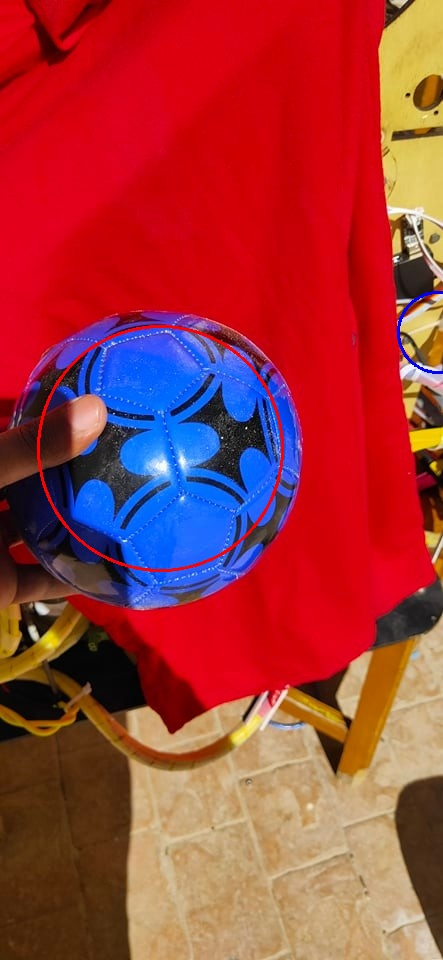
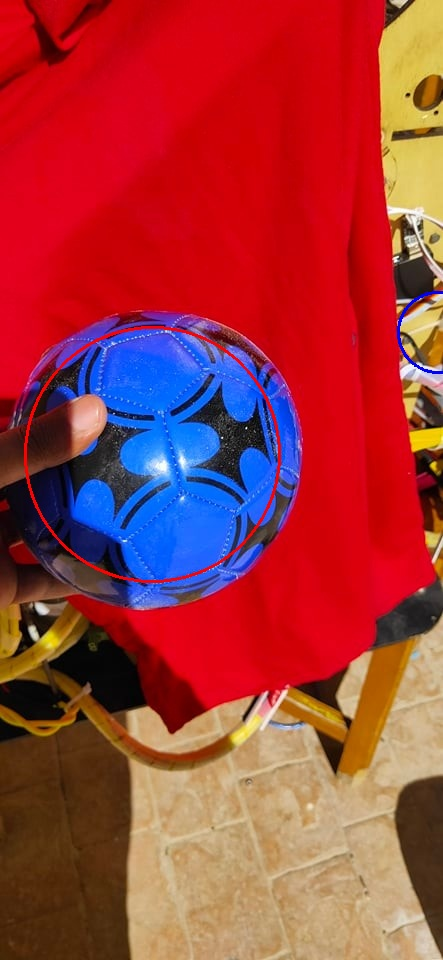
hotfix

Changed region(s): [[0.0293, 0.3438, 0.6456, 0.625], [0.3521, 0.3125, 0.4108, 0.3438]]

diff --git a/1. Classical View/Detector.py b/1. Classical View/Detector.py
@@ -34,7 +34,7 @@ class BallDetector:
             cv2.HOUGH_GRADIENT,
             dp=1,
             minDist=200,
-            param1=60,
+            param1=80,
             param2=22.4,
             minRadius=10,
             maxRadius=200

diff --git a/1. Classical View/Readme.md b/1. Classical View/Readme.md
@@ -31,6 +31,6 @@ The BallDetector class is responsible for detecting balls in an image. It uses t
 You can customize the color detection parameters and Hough Circle detection parameters in the detect_balls method of the BallDetector class to suit your specific needs.
 
 # Conclusion
-The provided Python code offers a practical yet traditional approach for detecting blue and red balls in images using OpenCV. While it might serves its purpose, it's important to note that this classical method can be relatively inefficient and inaccurate, especially in scenarios with complex backgrounds or varying lighting conditions.
+The provided Python code offers a practical yet traditional approach for detecting blue and red balls in images using OpenCV. While it might serve its purpose, it's important to note that this classical method can be relatively inefficient and inaccurate, especially in scenarios with complex backgrounds or varying lighting conditions.
 
 For more robust and accurate ball detection tasks, considering the adoption of deep learning methods could be a beneficial step forward. Deep learning approaches, such as convolutional neural networks (CNN), have shown significant advancements in object detection tasks, offering better adaptability to various environments and increased accuracy.
